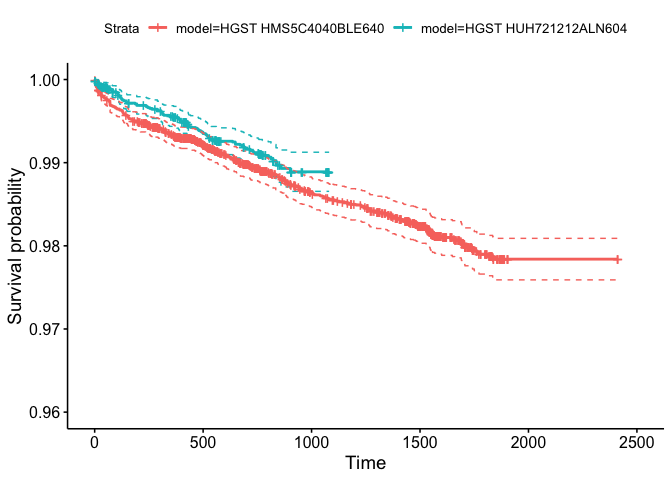
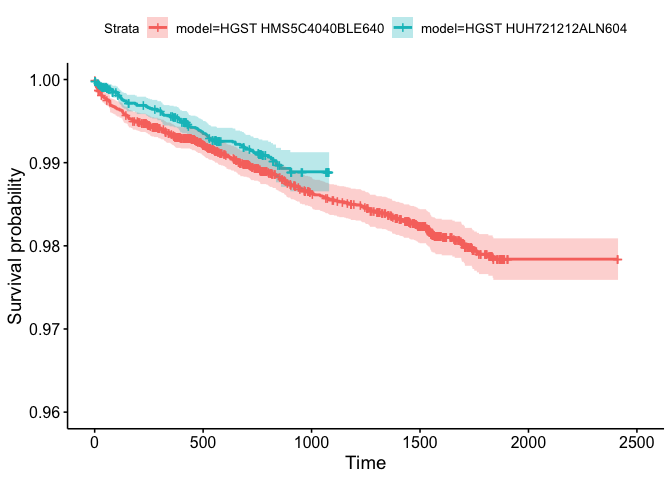
re-analysis

Changed region(s): [[0.1562, 0.1562, 0.9375, 0.5938], [0.5625, 0.0312, 0.625, 0.0938], [0.2188, 0.0312, 0.25, 0.0938]]

diff --git a/README.md b/README.md
@@ -122,6 +122,14 @@ reliable drive model in our sample of data:
 <td style="text-align: left;">0.83%</td>
 </tr>
 <tr class="odd">
+<td style="text-align: left;">Seagate BarraCuda SSD ZA250CM10002</td>
+<td style="text-align: right;">0.3</td>
+<td style="text-align: right;">262381</td>
+<td style="text-align: right;">5</td>
+<td style="text-align: left;">0.36%</td>
+<td style="text-align: left;">0.85%</td>
+</tr>
+<tr class="even">
 <td style="text-align: left;">ST12000NM0008</td>
 <td style="text-align: right;">12.0</td>
 <td style="text-align: right;">9261834</td>
@@ -129,7 +137,7 @@ reliable drive model in our sample of data:
 <td style="text-align: left;">0.82%</td>
 <td style="text-align: left;">0.94%</td>
 </tr>
-<tr class="even">
+<tr class="odd">
 <td style="text-align: left;">Hitachi HDS5C3030ALA630</td>
 <td style="text-align: right;">3.0</td>
 <td style="text-align: right;">6641559</td>
@@ -137,7 +145,7 @@ reliable drive model in our sample of data:
 <td style="text-align: left;">0.77%</td>
 <td style="text-align: left;">1.02%</td>
 </tr>
-<tr class="odd">
+<tr class="even">
 <td style="text-align: left;">HGST HMS5C4040ALE640</td>
 <td style="text-align: right;">4.0</td>
 <td style="text-align: right;">13317995</td>
@@ -145,7 +153,7 @@ reliable drive model in our sample of data:
 <td style="text-align: left;">0.99%</td>
 <td style="text-align: left;">1.19%</td>
 </tr>
-<tr class="even">
+<tr class="odd">
 <td style="text-align: left;">ST8000NM0055</td>
 <td style="text-align: right;">8.0</td>
 <td style="text-align: right;">21043105</td>
@@ -153,7 +161,7 @@ reliable drive model in our sample of data:
 <td style="text-align: left;">1.06%</td>
 <td style="text-align: left;">1.23%</td>
 </tr>
-<tr class="odd">
+<tr class="even">
 <td style="text-align: left;">ST8000DM002</td>
 <td style="text-align: right;">8.0</td>
 <td style="text-align: right;">17138860</td>
@@ -161,7 +169,7 @@ reliable drive model in our sample of data:
 <td style="text-align: left;">1.11%</td>
 <td style="text-align: left;">1.31%</td>
 </tr>
-<tr class="even">
+<tr class="odd">
 <td style="text-align: left;">Hitachi HDS722020ALA330</td>
 <td style="text-align: right;">2.0</td>
 <td style="text-align: right;">5306511</td>
@@ -169,7 +177,7 @@ reliable drive model in our sample of data:
 <td style="text-align: left;">1.09%</td>
 <td style="text-align: left;">1.39%</td>
 </tr>
-<tr class="odd">
+<tr class="even">
 <td style="text-align: left;">HGST HUH728080ALE600</td>
 <td style="text-align: right;">8.0</td>
 <td style="text-align: right;">1362296</td>
@@ -177,7 +185,7 @@ reliable drive model in our sample of data:
 <td style="text-align: left;">0.88%</td>
 <td style="text-align: left;">1.42%</td>
 </tr>
-<tr class="even">
+<tr class="odd">
 <td style="text-align: left;">ST500LM012 HN</td>
 <td style="text-align: right;">0.5</td>
 <td style="text-align: right;">1326191</td>
@@ -185,13 +193,21 @@ reliable drive model in our sample of data:
 <td style="text-align: left;">1.00%</td>
 <td style="text-align: left;">1.68%</td>
 </tr>
-<tr class="odd">
+<tr class="even">
 <td style="text-align: left;">ST12000NM0007</td>
 <td style="text-align: right;">12.0</td>
 <td style="text-align: right;">35220447</td>
 <td style="text-align: right;">1911</td>
 <td style="text-align: left;">1.58%</td>
 <td style="text-align: left;">1.71%</td>
+</tr>
+<tr class="odd">
+<td style="text-align: left;">WDC WD5000LPVX</td>
+<td style="text-align: right;">0.5</td>
+<td style="text-align: right;">640884</td>
+<td style="text-align: right;">71</td>
+<td style="text-align: left;">0.86%</td>
+<td style="text-align: left;">1.82%</td>
 </tr>
 <tr class="even">
 <td style="text-align: left;">Hitachi HDS5C4040ALE630</td>
@@ -226,6 +242,14 @@ reliable drive model in our sample of data:
 <td style="text-align: left;">2.53%</td>
 </tr>
 <tr class="even">
+<td style="text-align: left;">TOSHIBA MQ01ABF050M</td>
+<td style="text-align: right;">0.5</td>
+<td style="text-align: right;">480102</td>
+<td style="text-align: right;">94</td>
+<td style="text-align: left;">2.68%</td>
+<td style="text-align: left;">4.16%</td>
+</tr>
+<tr class="odd">
 <td style="text-align: left;">TOSHIBA MQ01ABF050</td>
 <td style="text-align: right;">0.5</td>
 <td style="text-align: right;">687057</td>
@@ -233,13 +257,37 @@ reliable drive model in our sample of data:
 <td style="text-align: left;">4.62%</td>
 <td style="text-align: left;">6.30%</td>
 </tr>
+<tr class="even">
+<td style="text-align: left;">WDC WD10EADS</td>
+<td style="text-align: right;">1.0</td>
+<td style="text-align: right;">370505</td>
+<td style="text-align: right;">64</td>
+<td style="text-align: left;">4.57%</td>
+<td style="text-align: left;">6.31%</td>
+</tr>
 <tr class="odd">
+<td style="text-align: left;">WDC WD60EFRX</td>
+<td style="text-align: right;">6.0</td>
+<td style="text-align: right;">686705</td>
+<td style="text-align: right;">72</td>
+<td style="text-align: left;">5.41%</td>
+<td style="text-align: left;">7.38%</td>
+</tr>
+<tr class="even">
 <td style="text-align: left;">WDC WD30EFRX</td>
 <td style="text-align: right;">3.0</td>
 <td style="text-align: right;">1271769</td>
 <td style="text-align: right;">174</td>
 <td style="text-align: left;">7.71%</td>
 <td style="text-align: left;">9.16%</td>
+</tr>
+<tr class="odd">
+<td style="text-align: left;">ST33000651AS</td>
+<td style="text-align: right;">3.0</td>
+<td style="text-align: right;">222587</td>
+<td style="text-align: right;">31</td>
+<td style="text-align: left;">6.60%</td>
+<td style="text-align: left;">9.29%</td>
 </tr>
 <tr class="even">
 <td style="text-align: left;">ST31500541AS</td>
@@ -250,12 +298,28 @@ reliable drive model in our sample of data:
 <td style="text-align: left;">11.00%</td>
 </tr>
 <tr class="odd">
+<td style="text-align: left;">ST500LM030</td>
+<td style="text-align: right;">0.5</td>
+<td style="text-align: right;">216516</td>
+<td style="text-align: right;">53</td>
+<td style="text-align: left;">10.68%</td>
+<td style="text-align: left;">14.21%</td>
+</tr>
+<tr class="even">
 <td style="text-align: left;">ST3000DM001</td>
 <td style="text-align: right;">3.0</td>
 <td style="text-align: right;">2205148</td>
 <td style="text-align: right;">1708</td>
 <td style="text-align: left;">15.13%</td>
 <td style="text-align: left;">16.17%</td>
+</tr>
+<tr class="odd">
+<td style="text-align: left;">ST31500341AS</td>
+<td style="text-align: right;">1.5</td>
+<td style="text-align: right;">330431</td>
+<td style="text-align: right;">216</td>
+<td style="text-align: left;">21.07%</td>
+<td style="text-align: left;">24.19%</td>
 </tr>
 </tbody>
 </table>
@@ -334,7 +398,7 @@ Let’s use Backblaze’s “naive” statistic to compare these 2 drives:
 The HGST HUH721212ALN604 actually has a **higher** naive failure rate at
 0.43% than the HGST HMS5C4040BLE640 at 0.43%.
 
-So why do I reccomend buying HGST HMS5C4040BLE640?
+So why do I recommend buying HGST HUH721212ALN604?
 
 The answer is that we’ve observed the HGST HMS5C4040BLE640 for many more
 years than the HGST HUH721212ALN604. On the one had, these extra years
@@ -342,12 +406,24 @@ give us more certainty that these drives are reliable and fail at
 extremely low rates. On the other hand, these extra years are **late**
 in the drive’s lifetimes, when failure rates are (expected) to be lower.
 
-Zooming in on the first year of a drive’s life demonstates that the
+Zooming in on the first year of a drive’s life demonstrates that the
 0.43% has a lower failure rate during this period. Obviously the future
 beyond that is unknown, but I expect this lower failure rate to continue
 over the lifetime of the two drives:
 
 ![](README_files/figure-markdown_strict/plot_2_drives-1.png)
+
+# Survival curves by drive capacity
+
+    ## Warning: Removed 613 row(s) containing missing values (geom_path).
+
+    ## Warning: Removed 496 rows containing missing values (geom_point).
+
+    ## Warning: Removed 613 row(s) containing missing values (geom_path).
+
+    ## Warning: Removed 496 rows containing missing values (geom_point).
+
+![](README_files/figure-markdown_strict/plot_best_drives-1.png)![](README_files/figure-markdown_strict/plot_best_drives-2.png)
 
 # Replicating my results
 
